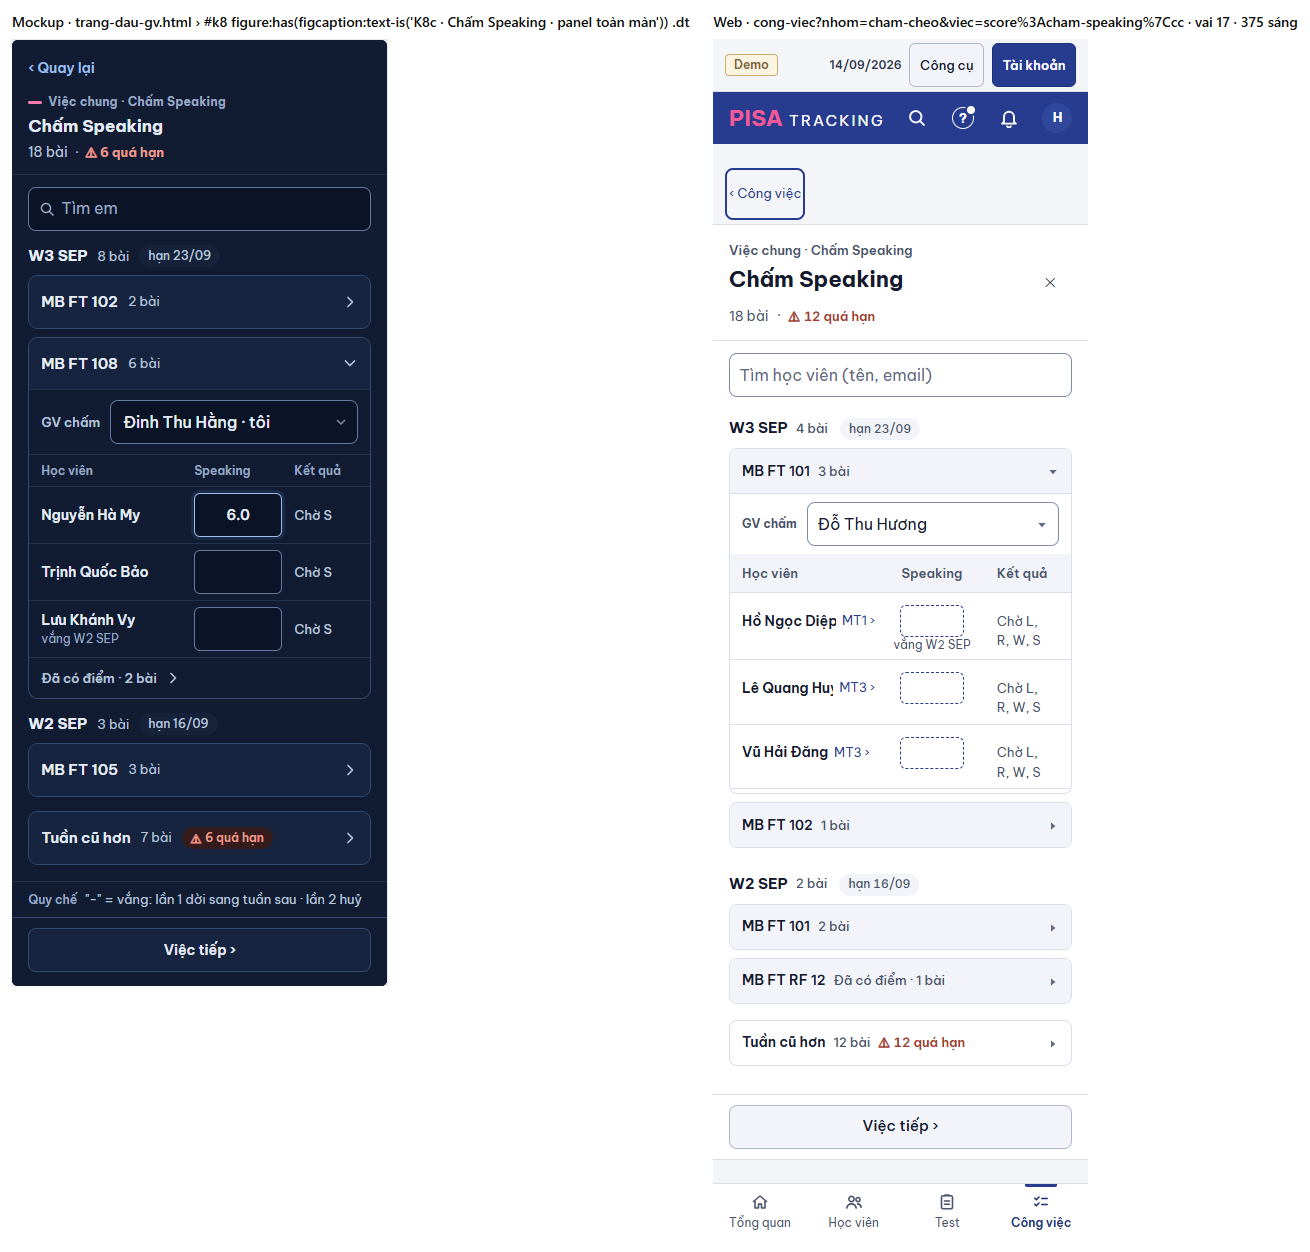
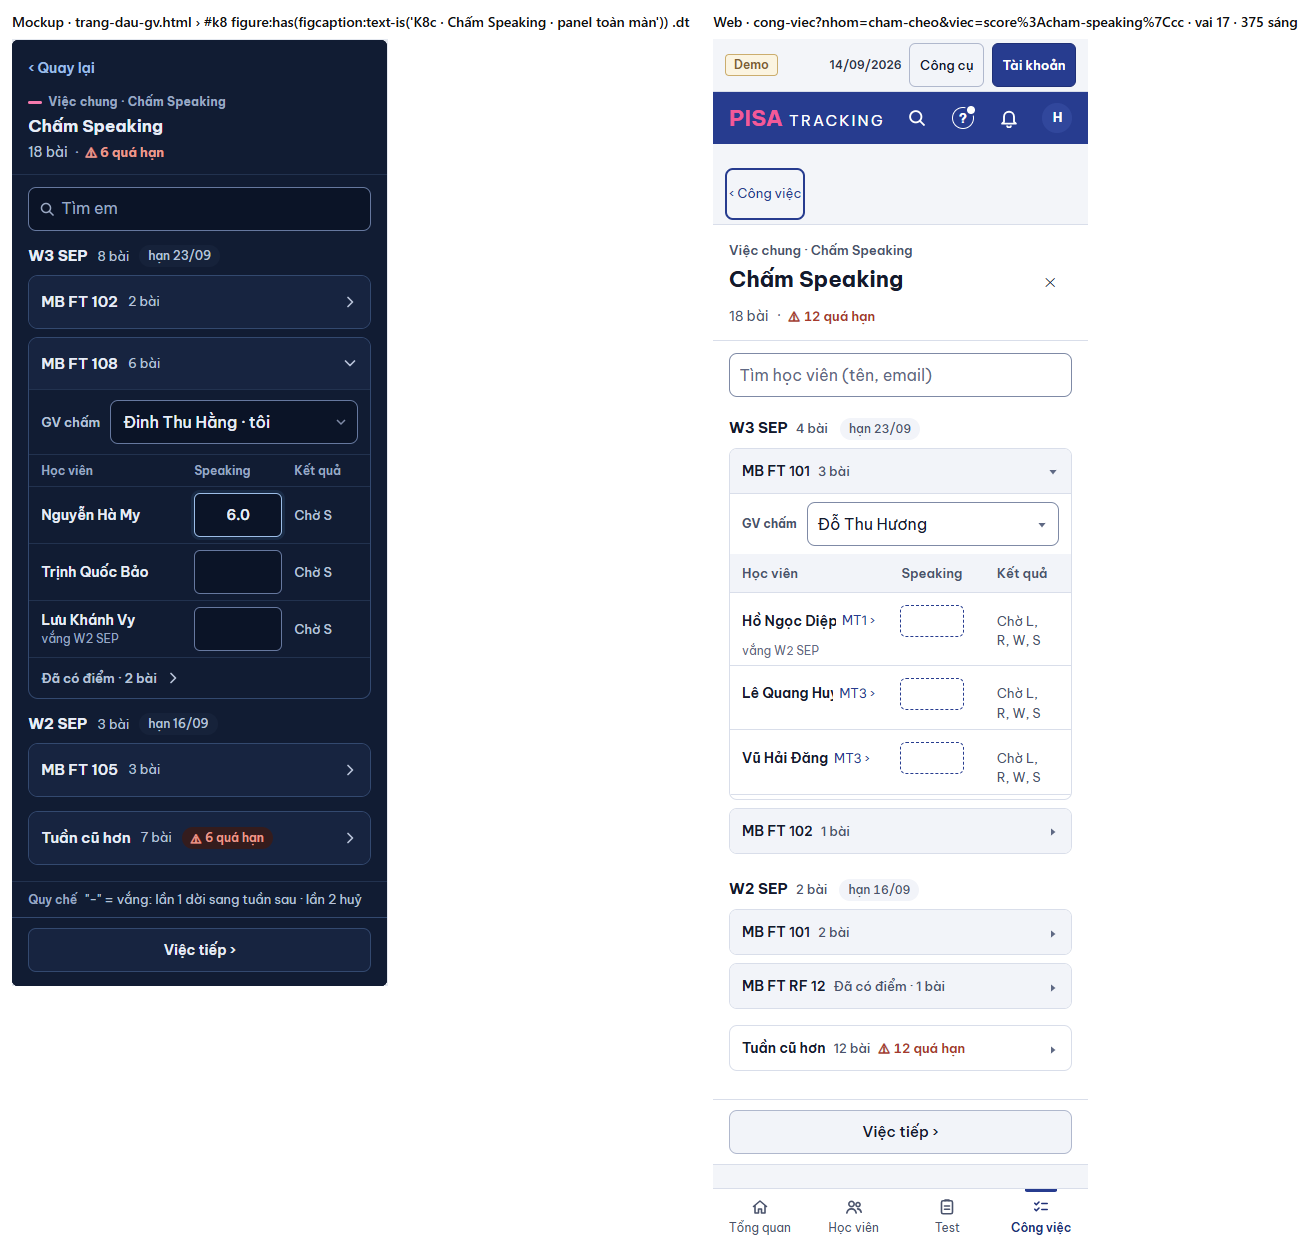
GD-2: Đã lưu chữ xám (NEN K-HTT-3), ảnh cặp cuối, khop-khac

diff --git a/web/src/modules/congViec/PanelChamSpeaking.tsx b/web/src/modules/congViec/PanelChamSpeaking.tsx
@@ -112,7 +112,7 @@ export function PanelChamSpeaking({ onDong, onDaLam, lopDau = null, onTiep = nul
   const cuRows = cu.flatMap((x) => x.ngan.flatMap((n) => n.rows));
   return (
     <KhungPanel hd="nhap-diem" tieuDe={t('Chấm Speaking')} dau={dau} loai={dau.loai} onDong={onDong}
-      chan={onTiep ? { huy: null, phu: soLuu > 0 ? <span role="status" className="text-[13px] font-semibold text-ok">✓ {t('Đã lưu {n} bài', { n: soLuu })}</span> : undefined, chinh: <button type="button" className={data?.soBai === 0 ? 'btn btn-primary min-h-[44px] sm:min-h-0' : 'btn min-h-[44px] sm:min-h-0'} onClick={onTiep}>{t('Việc tiếp ›')}</button> } : undefined}>
+      chan={onTiep ? { huy: null, phu: soLuu > 0 ? <span role="status" className="text-[13px] font-semibold text-slate-400">✓ {t('Đã lưu {n} bài', { n: soLuu })}</span> : undefined, chinh: <button type="button" className={data?.soBai === 0 ? 'btn btn-primary min-h-[44px] sm:min-h-0' : 'btn min-h-[44px] sm:min-h-0'} onClick={onTiep}>{t('Việc tiếp ›')}</button> } : undefined}>
       {error ? <ErrorState message={error.message} hint={error.hint} status={error.status} onRetry={reload} />
         : !data ? <div className="pt-3"><Skeleton rows={6} /></div>
           : !tatCa.length ? <div className="pt-3"><Empty title={t('Không có bài Speaking chờ chấm')} /></div>

diff --git a/docs/anh/gd2-cham-speaking/khop-khac.md b/docs/anh/gd2-cham-speaking/khop-khac.md
@@ -1,7 +1,8 @@
 # GD-2 PANEL-CHAM-SPEAKING — panel "Chấm Speaking" gom tuần Test → lớp · KHỚP / KHÁC
 
 Mockup đã duyệt `thiet-ke/v21/trang-dau-gv.html` K3 (1440) + K8c (375); `04-thiet-ke.md` 5.5, 12, 13 (thắng hình). Plan `07-plan-giao-dien-dot-1.md` dòng GD-2.
-Ảnh cặp (trái mockup | phải web, bộ demo, GV Speaking): `k3-1440-toi.png` · `k8c-375-sang.png`.
+Ảnh cặp (trái mockup | phải web, bộ demo ngày 14/09/2026, vai 17 Đỗ Thu Hương — GV Speaking): `k3-1440-toi.png` (ngăn đầu mở) · `k3-da-co-diem-1440-toi.png` (thêm ngăn chỉ còn bài đã chấm) · `k8c-375-sang.png`.
+Phần cột trái / tab / đầu trang Công việc trong ảnh là việc của GD-1 (đổi tên tab "Chấm Speaking", dải "Việc chung của nhóm GV Speaking") — không tính vào PR này.
 
 ## Truy vết khung → thành phần → kết quả
 
@@ -15,15 +16,18 @@ Mockup đã duyệt `thiet-ke/v21/trang-dau-gv.html` K3 (1440) + K8c (375); `04-
 | K3 ngăn lớp | mã lớp · n bài, gập / mở, lớp theo mã mặc định | `NganLop` nút `aria-expanded`, `soSanhLop`; mở sẵn ngăn đầu còn bài (hoặc `lopDau`) | KHỚP |
 | K3 ngăn lớp | — | "⚠ n quá hạn" ở đầu ngăn khi có | THÊM nhỏ (đầu tuần chỉ có hạn; ngăn quá hạn phải thấy khi gập) |
 | K3 ô GV chấm | "GV chấm [Đinh Thu Hằng · tôi]" đầu ngăn | `NutGvCham hang` + `useGvChamCot(lớp, tuần)` — cùng ô nhớ với lưới Nhập điểm; lưới không vẽ nút riêng (`LuoiFT gvCham`) | KHỚP (lưu máy chủ đến với LG-5 PR-C — hook dùng chung) |
-| K3 lưới | Học viên · Speaking · Kết quả, cùng lưới K2 | `LuoiFT chiCot=['speaking'] gon` — cùng hộp chấm 4 tiêu chí, "Lưu · bài tiếp ›", Hoàn tác vắng | KHỚP |
+| K3 lưới | Học viên · Speaking · Kết quả, cùng lưới K2 | `LuoiFT chiCot=['speaking'] gon` — cùng hộp chấm 4 tiêu chí, "Lưu · bài tiếp ›", Hoàn tác vắng; lưới vài cột ghi tên kỹ năng đầy đủ ("Speaking") và thu cột để vừa 375 (cũng áp K2) | KHỚP |
 | K3 Kết quả | "Chờ S" / "Chờ W2, S" / "✓ Đạt" / "SOS 1" | máy chủ gửi `cells` + `result` (từ bundle đã nạp); lưới chỉ vài cột ghi thẳng "Chờ …" thay "–" (cũng áp K2) | KHỚP |
-| K3 vắng | "vắng W2 SEP" dưới tên | `gopVangHang` của lưới | KHỚP |
+| K3 vắng | "vắng W2 SEP" dưới tên | lưới một cột: chữ vắng lên dòng phụ dưới tên (ô không lặp — DON-HINH B6) | KHỚP |
 | K3 Đã có điểm | ngăn con "Đã có điểm · 2 bài", dòng phụ "GV chấm: … · 13/09" | `details` + `LuoiFT` thứ hai, `phu` = `gvCham.ten` (không có → người nhập) · `ngay(enteredAt)` | KHỚP |
 | K3 Tuần cũ hơn | gập cuối, "7 bài · 6 quá hạn" | `details` tuần trước tuần trước; trong là cùng đầu tuần + ngăn | KHỚP |
 | K3 dòng quy chế | "Quy chế · "-" = vắng: lần 1 dời sang tuần sau · lần 2 huỷ · ⓘ" | — chờ thành phần dòng quy chế của GD-3 (`KhungPanel`) | KHÁC (phụ thuộc GD-3, thêm một dòng khi GD-3 merge) |
-| K3 chân | "✓ Đã lưu 1 bài" + "Việc tiếp ›" | "Việc tiếp ›" (giữ); trạng thái lưu từng dòng ở `DauLuu` cạnh tên | KHÁC nhỏ (đếm phiên ở chân không có nguồn chung nhiều lưới) |
+| K3 chân | "✓ Đã lưu 1 bài" + "Việc tiếp ›" | `chan.phu` "✓ Đã lưu n bài" (đếm lần lưu từ khi mở panel, `role=status`) + "Việc tiếp ›" — chữ **xám** theo luật NEN K-HTT-3 ("Đã lưu" một cách báo, xanh lá dành cho ✓ vượt kỳ vọng); mockup vẽ xanh → [XM-1] PTA chốt | KHỚP |
 | K3 hết bài ngăn | — | "Lớp tiếp: {mã} ›" (ngăn kế còn bài) / "Việc tiếp ›" | GIỮ luật R1-LUU-TIEP |
 | K8c 375 | toàn màn, "‹ Quay lại", cùng thứ tự | `KhungPanel` 375 toàn màn (sẵn có) | KHỚP |
+
+**KHỚP 13 / 14 (93 %)** — tính các dòng so được (bỏ BỎ / THÊM / GIỮ). 1 KHÁC: dòng quy chế chờ thành phần của GD-3.
+Khác hình nhỏ không thành dòng: ô điểm trống dáng viền đứt của lưới chung (mockup vẽ viền liền) — giữ để cùng dáng lưới Nhập điểm; tên + "MTn ›" ở 375 có thể bị cắt một chữ (rê / đọc màn có đủ tên).
 
 ## Thao tác TRƯỚC → SAU
 
@@ -42,4 +46,12 @@ Mockup đã duyệt `thiet-ke/v21/trang-dau-gv.html` K3 (1440) + K8c (375); `04-
 Không mất thao tác nào.
 
 ## Turso
-`GET /my-work/cham-speaking`: thêm `cells`, `result`, `mt0Sos`, `studentCode`, `status` cho mỗi dòng — tính từ `loadBundle` đã nạp (`resultOf(a, scores, skips, skillRows)`), số câu đo trước → sau ở dưới.
+`GET /my-work/cham-speaking` (GV Speaking, bộ demo, `prOv14c` OV14c-9): **18 câu → 18 câu**, 23 dòng → 23 dòng (trần 24 giữ). Thêm `cells`, `result`, `mt0Sos`, `studentCode`, `status` mỗi dòng — tính từ `loadBundle` đã nạp (`resultOf(a, scores, skips, skillRows)`), không câu đọc mới. Trang đầu / Công việc không thêm request (panel chỉ gọi khi bấm việc, như trước).
+
+## Phụ thuộc
+- **GD-3** (dòng quy chế trong `KhungPanel`): khi merge, thêm một dòng "\"-\" = vắng: lần 1 dời sang tuần sau · lần 2 huỷ" cho panel này.
+- **LG-5 PR-C** (GV chấm lưu máy chủ): panel dùng `useGvChamCot(lớp, tuần)` chung với lưới Nhập điểm — đổi kho lưu ở hook là panel theo, không sửa ở đây.
+- **GD-1** đổi tên tab / dải đầu tab; tệp không chồng với PR này.
+
+## Chú thích `ponytail:`
+Không có.
